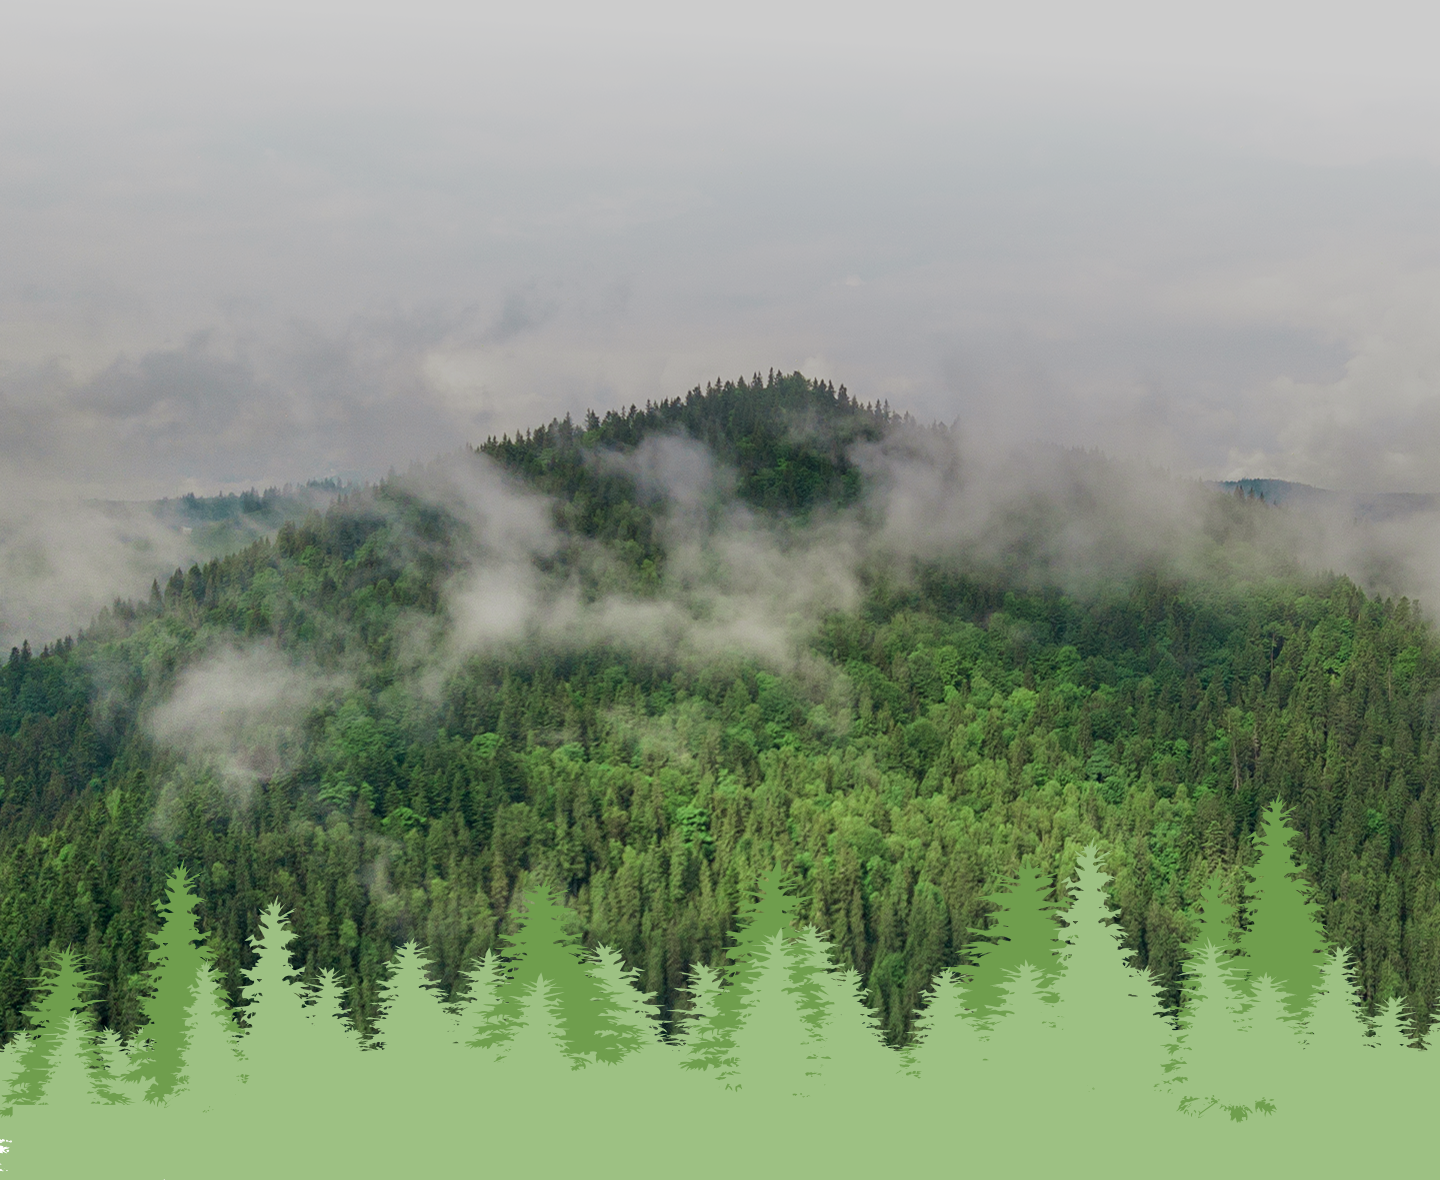
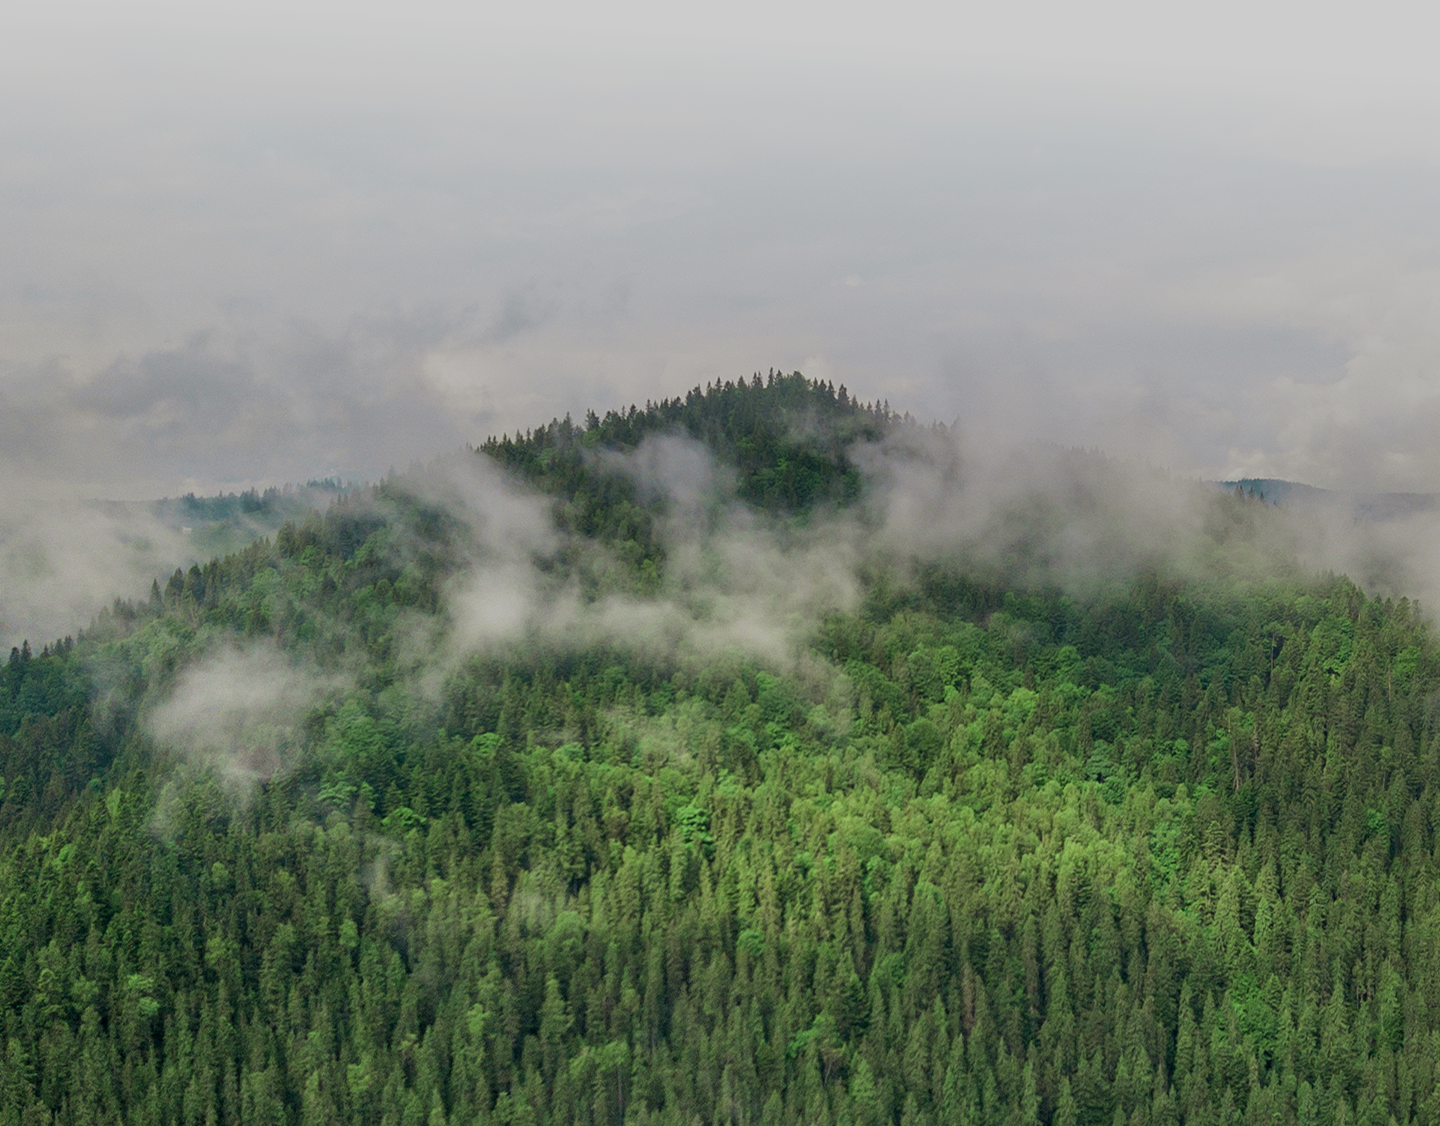
feedback-3

diff --git a/index.html b/index.html
@@ -83,6 +83,7 @@
     <div id="cs-hero" class="cs-hero">
         <div class="cs-hero-area">
             <img class="cs-hero-bg" src="assets/images/hero-bg-1.png" alt="Background">
+            <img class="cs-hero-tree" src="assets/images/Tree.png" alt="Background">
             <div class="container">
                 <div class="cs-hero-content-box">
                     <h1>Smarter PPC. Bigger Profits. Better Growth.</h1>
@@ -612,7 +613,7 @@
                                 <i class="fa-solid fa-star"></i>
                             </div>
                             <div class="quote">
-                                "Kolbe Rosales rocks!!!! On the first day of launching my campaign my phone was ringing
+                                Kolbe Rosales rocks!!!! On the first day of launching my campaign my phone was ringing
                                 and it never stopped! I thought Cedar & Sky would help my small business, but I had no
                                 idea it was going to be so fast! I can't thank Kolbe enough for being available, for
                                 listening to my ideas, and making me feel at ease and confident. I'm making sure this
@@ -620,7 +621,7 @@
                                 surpassed anything I could have expected or imagined! I'm excited about work again!
                                 Thank you to the bottom of my heart to Kolbe. If you aren't sure whether to pick Cedar &
                                 Sky for your business JUST DO IT!!!!! YOU won't regret it!!!! Everyone is amazing
-                                there!! But, Kolbe is the best!!!!!!"
+                                there!! But, Kolbe is the best!!!!!!
                             </div>
                             <p class="author">Tanya Martinez-Cardenas</p>
                             <p class="designation">Unitive Counseling Services</p>
@@ -635,8 +636,8 @@
                                 <i class="fa-solid fa-star"></i>
                             </div>
                             <div class="quote">
-                                "Cedar & Sky as drastically improved our revenue and overall website traffic from Google
-                                Ads - Kolbe is the man!!"
+                                Cedar & Sky as drastically improved our revenue and overall website traffic from Google
+                                Ads - Kolbe is the man!!
                             </div>
                             <p class="author">Stephanie Lewis</p>
                             <p class="designation">EscapeWorks Denver</p>
@@ -651,9 +652,8 @@
                                 <i class="fa-solid fa-star"></i>
                             </div>
                             <div class="quote">
-                                "Kolbe has been great! His PPC knowledge speaks for itself. Our google ads results have
-                                increased significantly since
-                                signing up with Kolbe."
+                                Kolbe has been great! His PPC knowledge speaks for itself. Our google ads results have
+                                increased significantly since signing up with Kolbe.
                             </div>
                             <p class="author">Jason Davidson</p>
                             <p class="designation">EscapeWorks Denver</p>
@@ -668,9 +668,9 @@
                                 <i class="fa-solid fa-star"></i>
                             </div>
                             <div class="quote">
-                                "Working with Kolbe has been a great experience. I’m far too busy to manage my own ads
+                                Working with Kolbe has been a great experience. I’m far too busy to manage my own ads
                                 and Kolbe taking this very important task has made my life easier. His work on my
-                                account has been amazing and he’s always super responsive and helpful! Thank you Kolbe!"
+                                account has been amazing and he’s always super responsive and helpful! Thank you Kolbe!
                             </div>
                             <p class="author">Sara Davoodi</p>
                             <p class="designation">Athar'a Pure</p>
@@ -685,12 +685,12 @@
                                 <i class="fa-solid fa-star"></i>
                             </div>
                             <div class="quote">
-                                "I've worked with Kolbe for the past couple of months for my PPC campaign and he's been
+                                I've worked with Kolbe for the past couple of months for my PPC campaign and he's been
                                 truly wonderful! He took the time
                                 to get to know my business as well as my desires for marketing. I've hired other
                                 marketing companies before and they
                                 were terrible compared to them. I HIGHLY recommend Cedar & Sky as well as Kolbe! He's
-                                great!!"
+                                great!!
                             </div>
                             <p class="author">Haley Arnott</p>
                             <p class="designation">Rocky Top Dog Training</p>
@@ -705,11 +705,11 @@
                                 <i class="fa-solid fa-star"></i>
                             </div>
                             <div class="quote">
-                                "We highly recommend Cedar & Sky. Kolbe has been fantastic to work with for our PPC ad
+                                We highly recommend Cedar & Sky. Kolbe has been fantastic to work with for our PPC ad
                                 management. He was able to scope
                                 out all of our goals for a PPC ad Landing Page and communicate our feedback on each
                                 iteration to their design team. We
-                                are very pleased with the results."
+                                are very pleased with the results.
                             </div>
                             <p class="author">Muhammad Zafar</p>
                             <p class="designation">M Zafar MD SC</p>
@@ -724,7 +724,7 @@
                                 <i class="fa-solid fa-star"></i>
                             </div>
                             <div class="quote">
-                                "Kolbe is awesome to work with!"
+                                Kolbe is awesome to work with!
                             </div>
                             <p class="author">Troy Latuff</p>
                             <p class="designation">Discount Water Heaters</p>
@@ -739,8 +739,8 @@
                                 <i class="fa-solid fa-star"></i>
                             </div>
                             <div class="quote">
-                                "Kolbe and Cedar & Sky are excellent. They are responsive and have done well for my
-                                advertising campaigns."
+                                Kolbe and Cedar & Sky are excellent. They are responsive and have done well for my
+                                advertising campaigns.
                             </div>
                             <p class="author">Daniel Messina</p>
                             <p class="designation">Messina Acupuncture</p>

diff --git a/assets/css/responsive.css b/assets/css/responsive.css
@@ -195,7 +195,7 @@
 
     .cs-hero-bg {
         width: 100%;
-        height: 600px;
+        height: 660px;
     }
 
     .cs-service-item {
@@ -254,6 +254,10 @@
         max-width: 430px;
     }
 
+    .cs-hero-bg {
+        width: 100%;
+        height: 590px;
+    }
 
 }
 
@@ -439,6 +443,11 @@
         overflow-x: auto;
     }
 
+    .cs-hero-bg {
+        width: 100%;
+        height: 560px;
+    }
+
 }
 
 @media screen and (max-width: 426px) {
@@ -459,6 +468,12 @@
     .cs-stats-container .single-stats:not(:first-child) {
         border-left: none;
     }
+
+    .cs-hero-bg {
+        width: 100%;
+        height: 545px;
+    }
+
 }
 
 @media screen and (max-width: 376px) {

diff --git a/assets/css/style.css b/assets/css/style.css
@@ -373,6 +373,12 @@ i {
     max-height: 1100px;
 }
 
+.cs-hero-tree{
+    position: absolute;
+    width: 100%;
+    bottom: 0;
+}
+
 .cs-hero-content-box {
     display: flex;
     flex-direction: column;
